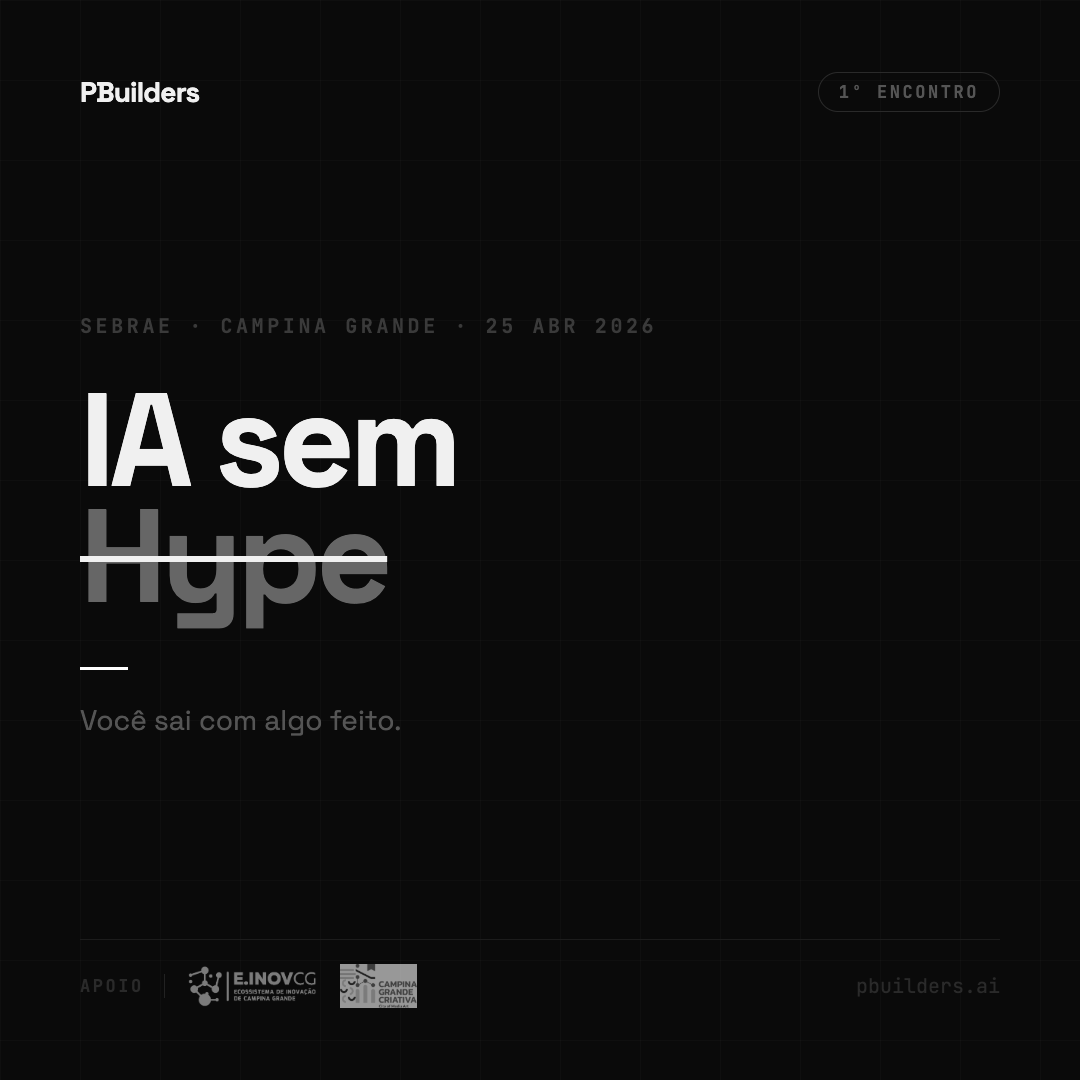
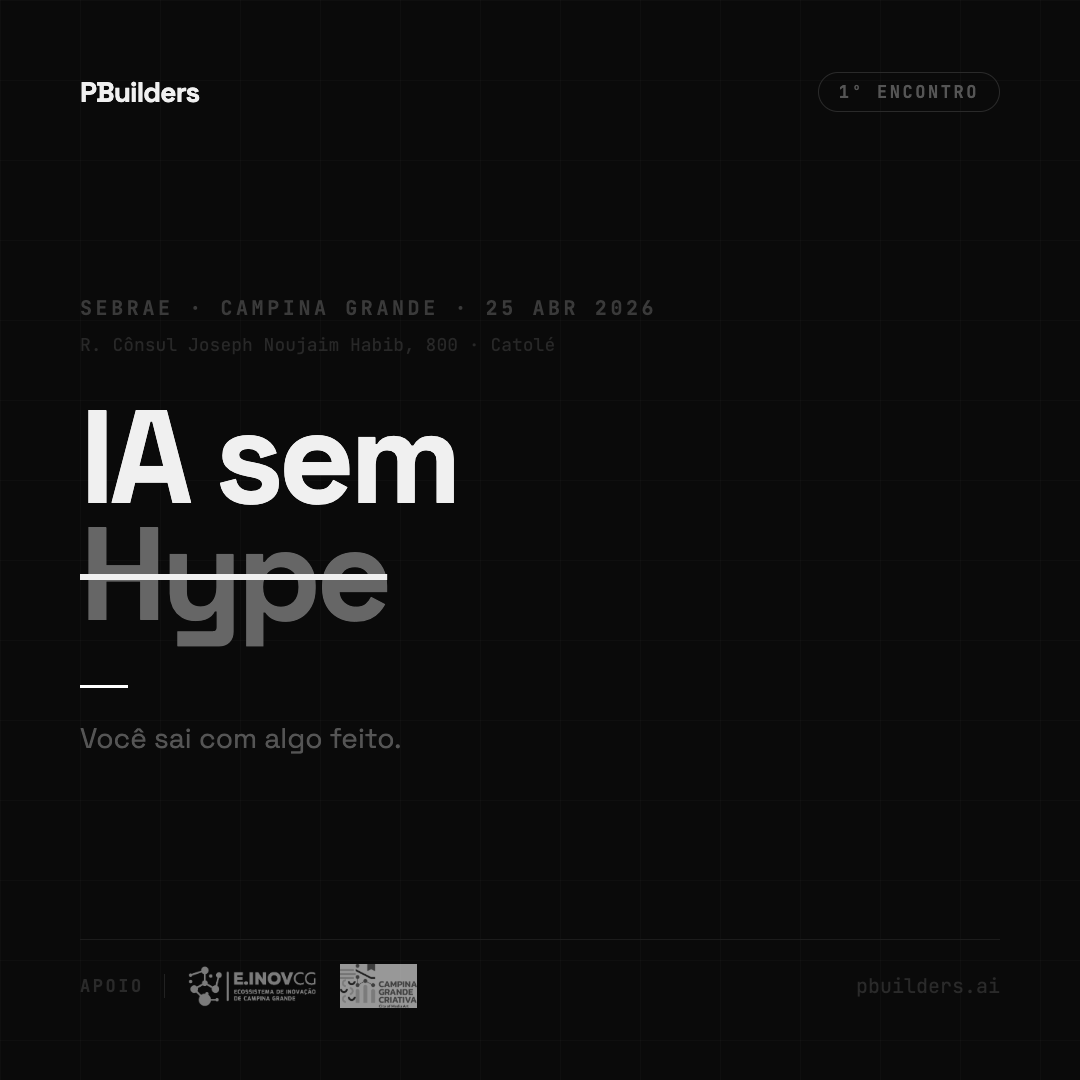
capa: adicionar endereço do Sebrae CG

diff --git a/eventos/ia-sem-hype/midia/capa.html b/eventos/ia-sem-hype/midia/capa.html
@@ -83,6 +83,13 @@
       text-transform: uppercase;
       letter-spacing: 0.18em;
       color: #3A3A3A;
+      margin-bottom: 12px;
+    }
+
+    .address {
+      font-family: 'JetBrains Mono', monospace;
+      font-size: 18px;
+      color: #282828;
       margin-bottom: 44px;
     }
 
@@ -171,6 +178,7 @@
 
     <div class="body">
       <div class="eyebrow">Sebrae · Campina Grande · 25 abr 2026</div>
+      <div class="address">R. Cônsul Joseph Noujaim Habib, 800 · Catolé</div>
       <div class="headline">
         IA sem<br><span class="hype">Hype</span>
       </div>
